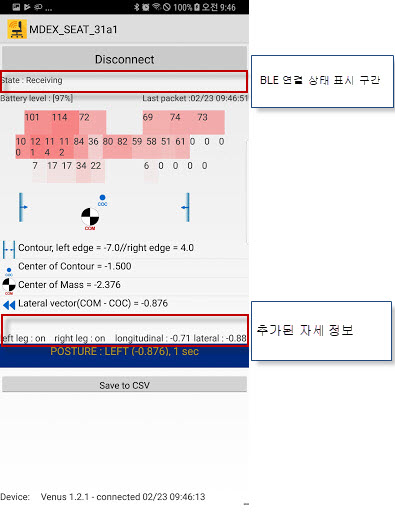
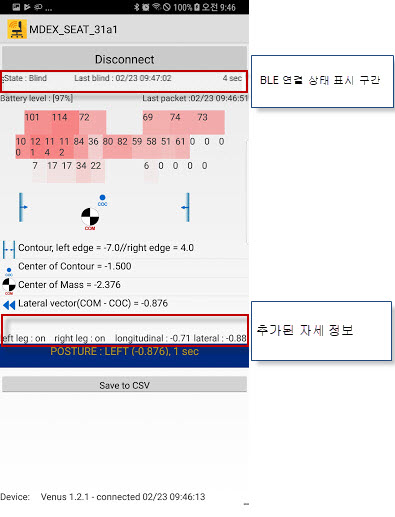
update

Changed region(s): [[0.0, 0.1238, 0.638, 0.1857]]

diff --git a/README.md b/README.md
@@ -55,12 +55,14 @@ History
 		- BLE 정보
 			- Receiving : BLE연결 상태 양호
 			- Blind : BLE연결 상태 끊어짐
+			- Last Blind : Blind가 발생한 시간
+			- 경과시간 : Blind상태가 발생한 후 흐른 시간
 			
 		- 자세 정보
 			- left leg : 왼쪽 다리 부착 여부
 			- right leg :  오른쪽 다리 부착 여부
-			- longitudinal : 착석의 앞뒤 기울기
-			- Leteral : 좌우 기울기
+			- longitudinal : 앞뒤 무게중심 값
+			- Leteral : 좌우 무계중심 값
 			                                                 
 			
 	<div align = "center">
